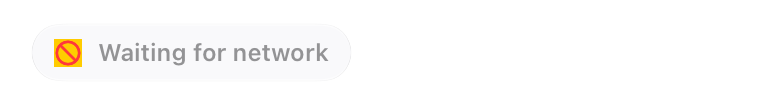
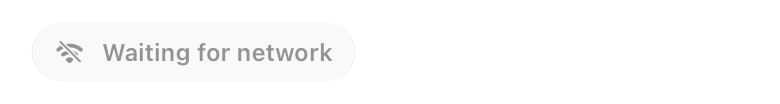
TAL-449: draw Waiting for network with a still wifi.slash symbol
Offline is a standing state, not work in progress, so the shared status
chip shows the wifi.slash symbol instead of a spinner, as its other
standing states do.

Changed region(s): [[0.0615, 0.375, 0.4308, 0.6635]]

diff --git a/app/TalariaKit/Tests/TalariaKitTests/TranscriptDisplayModelTests.swift b/app/TalariaKit/Tests/TalariaKitTests/TranscriptDisplayModelTests.swift
@@ -735,6 +735,8 @@ final class ChatActiveRunStatusPolicyTests: XCTestCase {
         let waiting = ChatActiveRunStatusPresentation(recoveryState: .waitingForNetwork)
         XCTAssertEqual(waiting?.label(agentName: "Hermes"), "Waiting for network")
         XCTAssertEqual(waiting?.accessibilityLabel(agentName: "Hermes"), "Hermes is waiting for a network connection")
+        XCTAssertEqual(waiting?.isWaitingForNetwork, true)
+        XCTAssertEqual(ChatActiveRunStatusPresentation(recoveryState: .reconnecting)?.isWaitingForNetwork, false)
     }
 
     func testSyncingPillHidesTheTranscriptRecoveryChip() {

diff --git a/app/TalariaKit/Sources/TalariaKit/Config/ChatActiveRunStatus.swift b/app/TalariaKit/Sources/TalariaKit/Config/ChatActiveRunStatus.swift
@@ -89,6 +89,11 @@ public struct ChatActiveRunStatusPresentation: Equatable {
         kind == .syncing
     }
 
+    /// Whether this is the "Waiting for network" status: a standing state, not work in progress (TAL-449).
+    public var isWaitingForNetwork: Bool {
+        kind == .waitingForNetwork
+    }
+
     /// Whether the transcript makes room for this chip. The syncing pill floats over the
     /// transcript bottom, so it never shifts the chat as it comes and goes.
     public var reservesTranscriptSpace: Bool {

diff --git a/app/TalariaTests/AppScreenVisualReferenceTests.swift b/app/TalariaTests/AppScreenVisualReferenceTests.swift
@@ -80,7 +80,7 @@ final class AppScreenVisualReferenceTests: XCTestCase {
         }
     }
 
-    /// The offline run status stays on one line on a 390 pt phone (TAL-449).
+    /// The offline run status stays on one line on a 390 pt phone, with a still symbol (TAL-449).
     func testWaitingForNetworkRunStatusReference() throws {
         try VisualReference.assertMatchesReference(
             StatusChip(ChatActiveRunStatusPresentation(kind: .waitingForNetwork), agentName: "Hermes")

diff --git a/app/Talaria/Features/Chat/StatusChip+RunStatus.swift b/app/Talaria/Features/Chat/StatusChip+RunStatus.swift
@@ -6,7 +6,7 @@ extension StatusChip {
         self.init(
             label: presentation.label(agentName: agentName),
             accessibilityLabel: presentation.accessibilityLabel(agentName: agentName),
-            icon: .activity
+            icon: presentation.isWaitingForNetwork ? .symbol("wifi.slash") : .activity
         )
     }
 }
